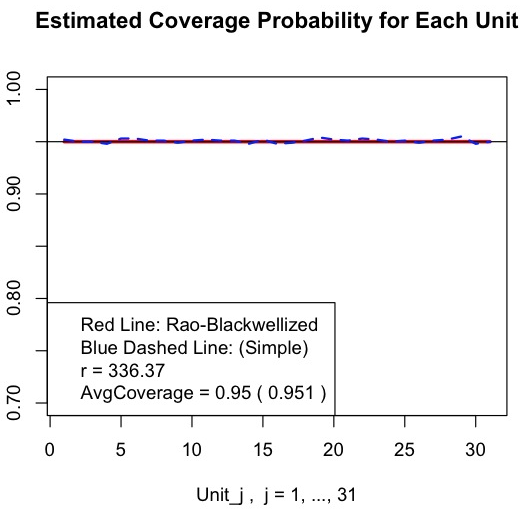
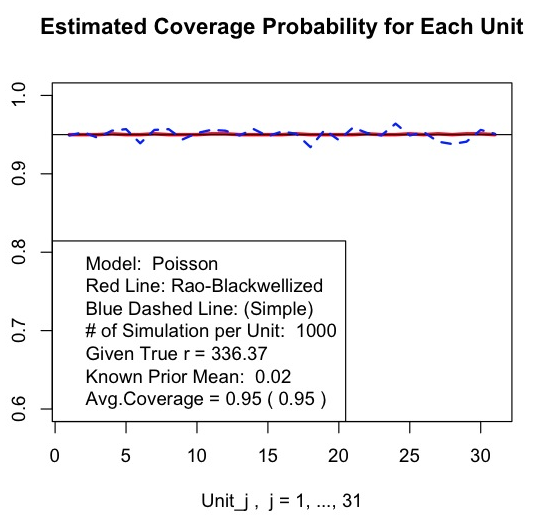
chagnes

diff --git a/jss/article.tex b/jss/article.tex
@@ -382,14 +382,14 @@ From the output provided by \code{gbp} it can be seen that a reasonable choice o
 % Also it reveals that the 23rd hospital, whose estimated true rate was the smallest, has also the smallest upper bound. If you are a risk-adverse, this hospital will attract you most strongly. And if you already chose this 23rd hospital compared to the 8th from the shrinkage plot, your decision might become stronger at this point, excluding the 8th hospital with more certainty. 
 
 
-When fitting a model it is always a good idea to question how reliable the estimation procedure is. For example, does our procedure generate interval estimates that have good repeated sampling properties? To answer this question the \code{coverage} function generates pseudo-datasets regarding the estimated $r~(=336.37)$ as a given true value. For reference, we can try any other value of $r$, for example $r=200$, by replacing the code below with `\code{R> pcv <- coverage(p, A.or.r = 200, mean.PriorDist = 0.02, nsim = 10000)}.
+When fitting a model it is always a good idea to question how reliable the estimation procedure is. For example, does our procedure generate interval estimates that have good repeated sampling properties? To answer this question the \code{coverage} function generates pseudo-datasets regarding the estimated $r~(=336.37)$ as a given true value. For reference, we can try any other value of $r$, for example $r=200$, by replacing the code below with `\code{R> pcv <- coverage(p, A.or.r = 200, mean.PriorDist = 0.02, nsim = 1000)}.
 
 
 Also, \code{gbp} can provide interval estimates with different confidence levels, for example 90\%,  and the appropriate code adjustment is `\code{R> p <- gbp(z, n, Alpha = 0.9, mean.PriorDist = 0.02, model = "pr")}.'  Then, the below code will evaluate whether interval estimates achieve the 90\% confidence level.
 
 \begin{CodeChunk}
 \begin{CodeInput}
-R> pcv <- coverage(p, nsim = 10000)
+R> pcv <- coverage(p, nsim = 1000)
 \end{CodeInput}
 \end{CodeChunk}
 \begin{figure}[h] 
@@ -400,8 +400,51 @@ R> pcv <- coverage(p, nsim = 10000)
 \end{center}
 \end{figure}
 
-In Figure \ref{fig:hospitalcoverage} we see two estimated coverage probabilities: a simple unbiased estimate (a blue dashed line) and an Rao-Blackwellized unbiased estimate (a red line). Both lines are practically indistinguishable from the horizontal line at 0.95 and the estimated overall average coverage rate is 0.950 from the Rao-Blackwellized estimate. This result shows that the interval estimates for this particular dataset accurately achieves 95\% confidence under repeated sampling.
+In Figure \ref{fig:hospitalcoverage} we see three lines; one is a red line connecting Rao-Blackwellized unbiased estimates for 31 hospitals; another is a dashed blue line connecting simple unbiased estimates for those hospitals; a black horizontal line indicating the confidence level, 0.95. 
 
+The estimated overall average coverage rate is 0.950 from both Rao-Blackwellized and simple unbiased estimates. This result shows that the interval estimates for this particular dataset accurately achieves 95\% confidence under repeated sampling. Note that this estimate depends on the given true value of $r$ and the assumption that the model is true.
+
+If we want to check average Rao-Blackwellized unbiased estimates of coverage rate for each hospital, the following code gives us 31 estimates.
+\begin{CodeChunk}
+\begin{CodeInput}
+R> pcv$coverageRB
+\end{CodeInput}
+\begin{CodeOutput}
+ [1] 0.950 0.950 0.950 0.951 0.950 0.950 0.951 0.950 0.950 0.950 0.951 0.951 
+[13] 0.950 0.950 0.950 0.950 0.951 0.950 0.950 0.950 0.950 0.951 0.950 0.950 
+[25] 0.951 0.950 0.951 0.950 0.951 0.951 0.950
+\end{CodeOutput}
+\end{CodeChunk}
+
+As for average simple unbiased estimates of coverage rate for each hospital, we can type the code below to obtain 31 estimates. 
+\begin{CodeChunk}
+\begin{CodeInput}
+R> pcv$coverageS
+\end{CodeInput}
+\begin{CodeOutput}
+ [1] 0.949 0.953 0.946 0.955 0.957 0.939 0.956 0.957 0.944 0.952 0.956 0.955 
+[13] 0.949 0.957 0.948 0.954 0.951 0.934 0.956 0.943 0.959 0.952 0.949 0.964 
+[25] 0.949 0.953 0.941 0.938 0.941 0.956 0.951
+\end{CodeOutput}
+\end{CodeChunk}
+
+The last thing to mention is the accuracy of Rao-Blackwellized unbiased estimates compared to that of simple one. Taking the first hospital as an example, we can calculate the sample variance of 1,000 Rao-Blackwellized unbiased estimates for the first hospital and that of 1,000 simple ones by typing following code. For reference, \code{raw.resultRB} and \code{raw.resultS} in \code{pcv} contains all the individual simulation results.
+\begin{CodeChunk}
+\begin{CodeInput}
+R> var(pcv$raw.resultRB[1, ])
+\end{CodeInput}
+\begin{CodeOutput}
+ [1] 0.002031225
+\end{CodeOutput}
+\begin{CodeInput}
+R> var(pcv$raw.resultS[1, ])
+\end{CodeInput}
+\begin{CodeOutput}
+ [1] 0.04844745
+\end{CodeOutput}
+\end{CodeChunk}
+
+It shows that Rao-Blackwellized unbiased estimate is about 24 times more accurate than simple one. Also, as the number of simulation increases (for example 10,000), the zig-zagging blue line will be closer to the red line.
 % For reference, it took 10 seconds for MacBook Pro with a 2.3 GHz dual-core Intel i5 CPU to run 10,000 simulations.
 
 
@@ -446,7 +489,6 @@ Due to the nature of the test each school's coaching effect has an approximately
 \begin{CodeChunk}
 \begin{CodeInput}
 R> data(schools)
-R> attach(schools)
 R> g <- gbp(y, se, model = "gr")
 R> g
 \end{CodeInput}
@@ -523,7 +565,7 @@ An integral part of fitting any model is to check the method of estimation. Name
 
 \begin{CodeChunk}
 \begin{CodeInput}
-R> gcv <- coverage(g, nsim = 10000)
+R> gcv <- coverage(g, nsim = 1000)
 \end{CodeInput}
 \end{CodeChunk}
 \begin{figure}[h] 
@@ -534,7 +576,38 @@ R> gcv <- coverage(g, nsim = 10000)
 \end{center}
 \end{figure}
 
-As seen in Figure \ref{fig:schoolcoverage} the desired $95\%$ confidence (horizontal line at 0.95) is achieved (actually, exceeded) for each school in this example. 
+As seen in Figure \ref{fig:schoolcoverage} the desired $95\%$ confidence (horizontal line at 0.95) is achieved (actually, exceeded) for each school in this example. Here, all the coverage estimates depend on the given true values of $A$ and $\beta_{0}$, and the assumption that the model is true.
+
+Average Rao-Blackwellized unbiased estimates of coverage rate for each school can be seen as below.
+\begin{CodeChunk}
+\begin{CodeInput}
+R> gcv$coverageRB
+\end{CodeInput}
+\begin{CodeOutput}
+ [1] 0.966 0.957 0.966 0.962 0.960 0.961 0.960 0.969
+\end{CodeOutput}
+\end{CodeChunk}
+
+As for average simple unbiased estimates of coverage rate for each school, 
+\begin{CodeChunk}
+\begin{CodeInput}
+R> gcv$coverageS
+\end{CodeInput}
+\begin{CodeOutput}
+[1] 0.970 0.943 0.957 0.968 0.956 0.969 0.961 0.976
+\end{CodeOutput}
+\end{CodeChunk}
+
+Finally  when it comes to the first school,  Rao-Blackwellized unbiased estimate is about 24 times more accurate than simple one. It is based on the ratio of the sample variances of individual 1,000 estimates from two approaches.
+\begin{CodeChunk}
+\begin{CodeInput}
+R> var(pcv$raw.resultS[1, ]) / var(pcv$raw.resultRB[1, ])
+\end{CodeInput}
+\begin{CodeOutput}
+ [1] 23.85134
+\end{CodeOutput}
+\end{CodeChunk}
+
 
 % For reference, it took 188 seconds for 10,000 simulations  on one of authors' MacBook Pro with a 2.3 GHz dual-core Intel i5 CPU. In MCMC, the exact simulation would be too time-consuming. One could compare curve in Figure \ref{fig:schoolcoverage} with a curve from MCMC.
 
@@ -668,11 +741,11 @@ R> plot(b)
 In Figure \ref{fig:baseball} the 95\% interval plot shows us range of true batting average for each player, which clarifies the regression toward the mean (RTTM) within two groups. Let's see the 10th, 14th, and 15th players on the graph for example. They are outfielders but their observed batting averages are far lower than the first five outfielders. RTTM means that it can happen by their bad luck though in the long run their batting averages will come back to their expected ones as outfielders (blue horizontal lines). So, their posterior means (red dots) can be interpreted as their RTTM. 
 
 
-Then, how much can we trust these interval estimates? The following frequency method checking that regards the estimated values, $\hat{r}$ (=112.95) and $\hat{\beta}~(=(-1.194, ~0.389)^{T})$, as true values when it generates pseudo-datasets will answer it. For reference, if we want to try different true parameters, the appropriate code will be \code{coverage(b, A.or.r = 100, reg.coef = c(-1, 0.2), nsim = 10000)} instead of below one.
+Then, how much can we trust these interval estimates? The following frequency method checking that regards the estimated values, $\hat{r}$ (=112.95) and $\hat{\beta}~(=(-1.194, ~0.389)^{T})$, as true values when it generates pseudo-datasets will answer it. For reference, if we want to try different true parameters, the appropriate code will be \code{coverage(b, A.or.r = 100, reg.coef = c(-1, 0.2), nsim = 1000)} instead of below one.
 
 \begin{CodeChunk}
 \begin{CodeInput}
-R> bcv <- coverage(b, nsim = 10000)
+R> bcv <- coverage(b, nsim = 1000)
 \end{CodeInput}
 \end{CodeChunk}
 \begin{figure}[h]
@@ -683,8 +756,40 @@ R> bcv <- coverage(b, nsim = 10000)
 \end{center}
 \end{figure}
 
-Finally, in Figure \ref{fig:baseball2}, we see that the estimated average coverage probability is 0.973 based on the Rao-Blackwellization, conservatively satisfying the definition of the 95\% confidence interval. 
+Finally, in Figure \ref{fig:baseball2}, we see that the estimated average coverage probability is 0.972 based on the Rao-Blackwellization, conservatively satisfying the definition of the 95\% confidence interval. Each coverage estimate depends on given true values of $r$ and $\beta_{(2\times1)}$, and the assumption that the model is true.
 
+
+The average Rao-Blackwellized unbiased estimates of coverage rate for each player follows.
+\begin{CodeChunk}
+\begin{CodeInput}
+R> bcv$coverageRB
+\end{CodeInput}
+\begin{CodeOutput}
+ [1] 0.972 0.972 0.973 0.972 0.972 0.970 0.974 0.972 0.973 0.973 0.973 0.970 
+[13] 0.972 0.972 0.973 0.972 0.973 0.972
+\end{CodeOutput}
+\end{CodeChunk}
+
+And also average simple unbiased estimates of coverage rate for each player can be obtained.
+\begin{CodeChunk}
+\begin{CodeInput}
+R> bcv$coverageS
+\end{CodeInput}
+\begin{CodeOutput}
+ [1] 0.969 0.967 0.973 0.980 0.970 0.974 0.965 0.976 0.969 0.972 0.980 0.972 
+[13] 0.957 0.969 0.972 0.982 0.978 0.984
+\end{CodeOutput}
+\end{CodeChunk}
+
+Finally,  we see that Rao-Blackwellized unbiased estimate for the first player is about 26 times more accurate than simple one. It is based on the ratio of the sample variances of individual estimates from two approaches.
+\begin{CodeChunk}
+\begin{CodeInput}
+R> var(bcv$raw.resultS[1, ]) / var(bcv$raw.resultRB[1, ])
+\end{CodeInput}
+\begin{CodeOutput}
+ [1] 25.64346
+\end{CodeOutput}
+\end{CodeChunk}
 % As for the running time, it took 243 seconds for MacBook Pro equipped with a 2.3 GHz dual-core Interl i5 CPU to execute 10,000 simulations.
 
 
